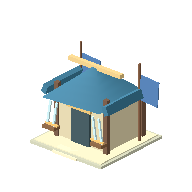
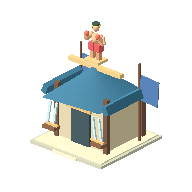
feat(xian): v0.42 comic Thai village and broadcast area attacks

Changed region(s): [[0.4375, 0.0938, 0.5625, 0.3438]]

diff --git a/XIAN_README.md b/XIAN_README.md
@@ -1,3 +1,12 @@
+## v0.42 comic Thai village
+
+- Food storage is a large transparent foam-style takeaway clamshell with rice, basil-style stir fry and a fried egg. Contents reflect storage utilization; sizes and trims change per level.
+- The elixir producer is an electric rice cooker with switch, indicator lights, handles, cable and continuously rising black smoke.
+- Wards become tall four-horn village broadcast towers. Offline sound pulses damage every living unit within 4.2 grid cells of the tower; tests cover separated in-range targets and an untouched out-of-range unit. Online prototype retains its server aggregate outcome and shows matching expanding sound rings.
+- Arrow towers become A-frame ladders, wood at low levels and reinforced structures later, with one seated slingshot shooter per level. Static bodies are batched; only sling groups animate. Stone projectiles replace enemy arrow visuals, single-target damage retained.
+- Inns feature roast-chicken roof ornaments. Barracks feature a Muay Thai boxer that grows in scale and musculature from levels 1–10, with animated fire at level 10.
+- Stable backend keys/economy/save data and the v0.41 reward/ads integration are retained. Display names are overridden in the current client. Godot regression suite and OpenGL level captures reviewed; physical Android frame rate remains unmeasured.
+
 ## v0.41 builders, gifts and native match rewards
 
 - Builder houses become fixed-level corrugated-metal work sheds. The first is included free; subsequent sheds cost 250 / 500 / 1,000 / 2,000 / 3,500 / 5,000 jade. The server caps new construction at seven and creates sheds instantly without tying up an existing builder. Older accounts with more builders retain them but cannot add any.
